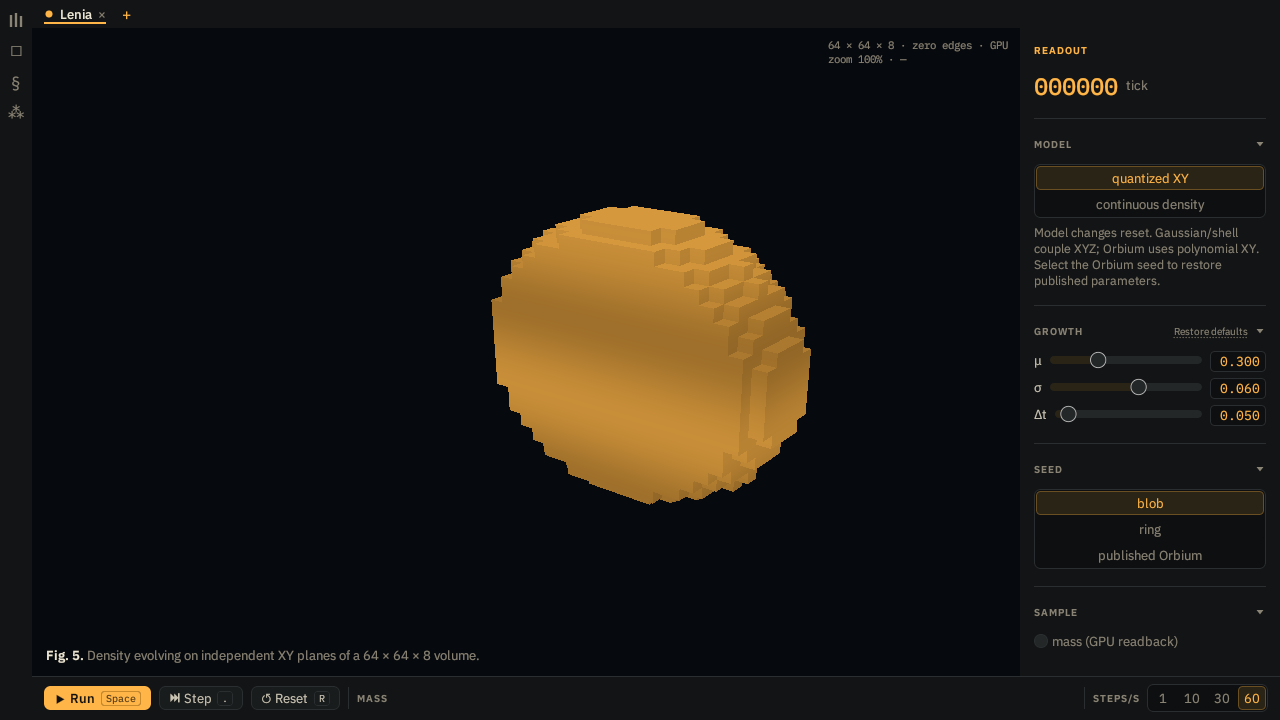
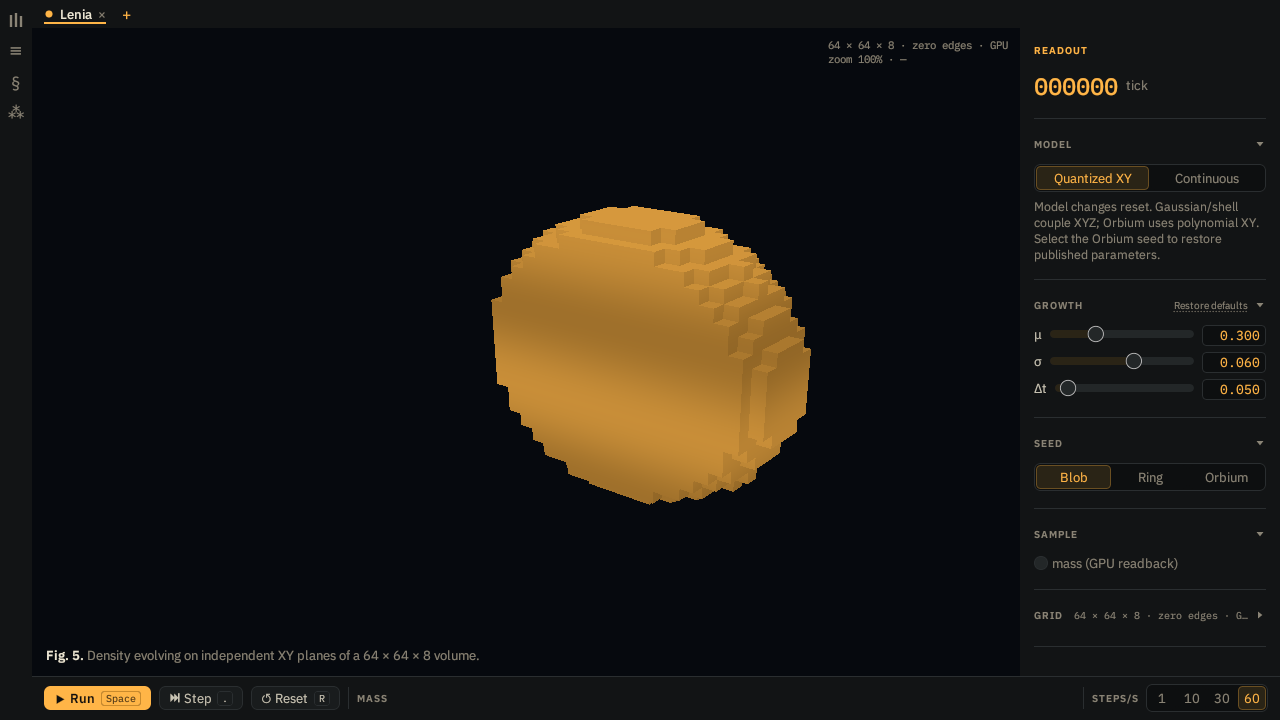
docs: recapture inspector and library; add folded inspector image

diff --git a/docs/verification/ui-readability/README.md b/docs/verification/ui-readability/README.md
@@ -7,12 +7,13 @@ monitor 1. "Before" images come from commit `1f500c2`, built in a separate workt
 
 | Image | What changed / what to look at |
 | --- | --- |
-| `inspector-lenia.png` (before: `inspector-lenia-before.png`) | Libertinus serif and italic labels are gone. Sections are divided by hairlines with small-caps titles and a fold chevron; model and seed are segmented controls with the selected option in amber; sliders have boxed mono values. |
+| `inspector-lenia.png` (before: `inspector-lenia-before.png`) | Libertinus serif and italic labels are gone. Sections are divided by hairlines with small-caps titles and a fold chevron; model and seed are segmented controls (Quantized XY / Continuous, Blob / Ring / Orbium) with the selected option in amber; sliders have boxed mono values wide enough for `10.000`; the rail Compare icon (`≡`) renders. Grid is folded with its summary. |
+| `inspector-lenia-folded.png` | Same capture with every section folded (the inspector does not scroll in verification, so the folds were forced for this image only): Grid and "About this specimen" show their one-line summaries, elided with an ellipsis rather than touching the title. |
 | `inspector-authored.png` (before: `inspector-authored-before.png`) | Authored-rules form: bordered pills, framed code editor, Union/Intersection/XOR segmented control, grouped action buttons. The inspector sits at its 220 px minimum here. |
 | `inspector-narrow.png` | Right 240 px of the authored-rules capture: the segmented control wraps (XOR drops to a second row), pills wrap, and nothing overlaps or clips. |
 | `transport.png` (before: `transport-before.png`) | Keyed Run/Step/Reset buttons (Space, ., R), a captioned trace with the amber current value at its end, and the steps/s rates as one flush-right segmented group. |
-| `library.png` (before: `library-before.png`) | Library drawer with divided, small-caps groups, bordered Save and Import controls and the IBM Plex stack. |
-| `legacy-main-menu.png`, `legacy-options.png` | Legacy menus render in IBM Plex with no tofu or clipped text. The main menu buttons no longer wrap and sit 30 percent above the bottom edge. |
+| `library.png` (before: `library-before.png`) | Library drawer with divided, small-caps groups, a framed filter field, bordered Save and Import controls and the IBM Plex stack. The specimen subtitles `aⁿbⁿ` and `aⁿbⁿcⁿ` render their superscript `ⁿ` from the bundled SoulSymbols subset. |
+| `legacy-main-menu.png`, `legacy-options.png` | Legacy menus render in IBM Plex with no missing-glyph boxes or clipped text in these captures. The main menu buttons no longer wrap and sit 30 percent above the bottom edge. |
 
 ## Not captured
 
@@ -20,4 +21,13 @@ monitor 1. "Before" images come from commit `1f500c2`, built in a separate workt
   resize handle. The authored-rules capture lands on the 220 px minimum by itself and is
   used instead (`inspector-narrow.png`).
 - The Lenia inspector scrolled to the folded Grid and "About this specimen" sections: the
-  verification modes do not scroll the panel.
+  verification modes do not scroll the panel, so `inspector-lenia-folded.png` forces every
+  section closed instead.
+- The two specimen warnings below the About header (edited-rule and continuous-model notes)
+  are covered by a unit test; no verification mode edits a catalog specimen into that state.
+
+## Glyph coverage
+
+`≡` and `ⁿ` were missing from the first symbol subset and rendered as boxes; both are now in
+`assets/fonts/symbols/SoulSymbols-Regular.ttf`, and `theme::fonts` tests check every specimen
+title, subtitle, caption and explanation plus rail and transport glyphs against each font family.
